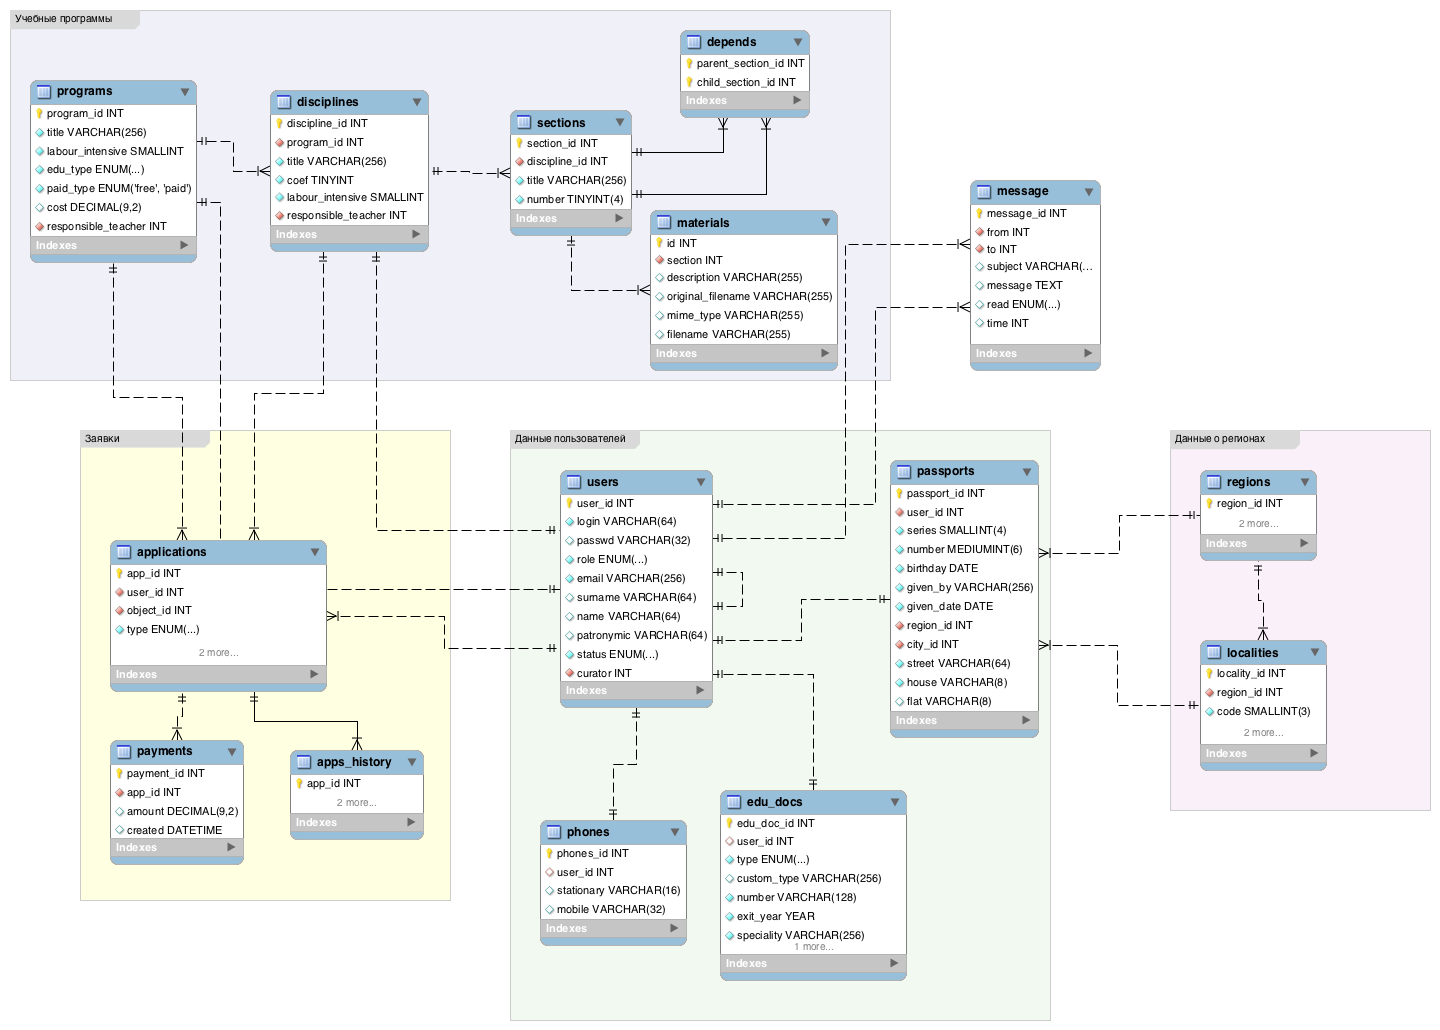
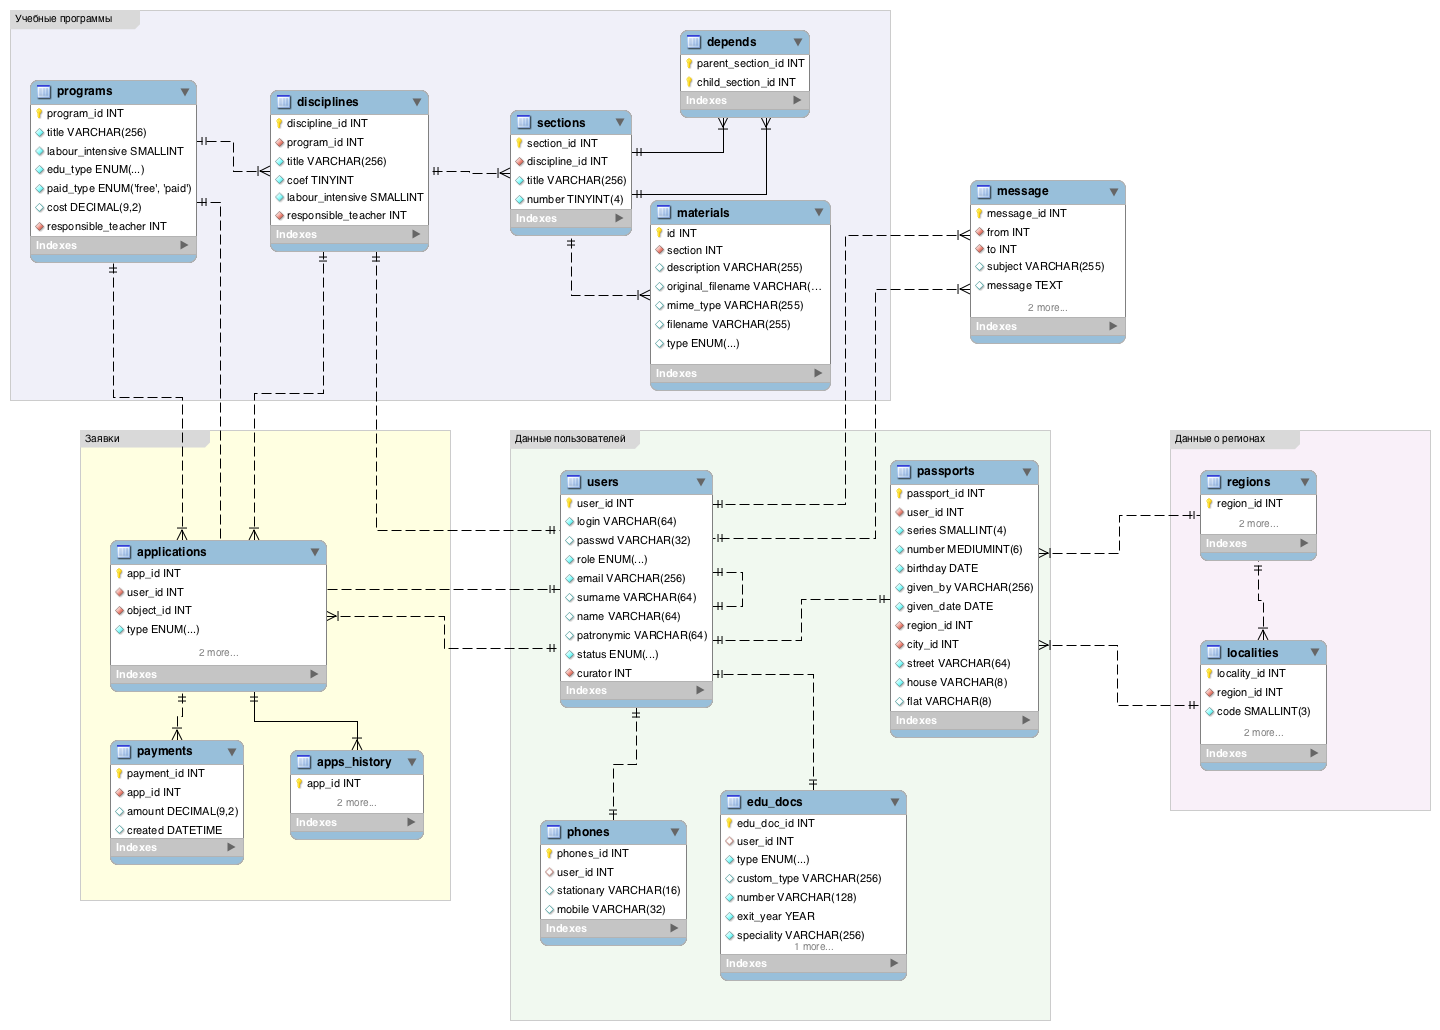
[+] тип образовательных материалов
git-svn-id: http://subversion.assembla.com/svn/remote-edu/trunk@183 8be755f0-7b69-014b-b4a2-75d5e90fc6ab

diff --git a/private/app/Model/Educational/Materials.php b/private/app/Model/Educational/Materials.php
@@ -16,20 +16,21 @@
             return new self();
         }
 
-        public function addMaterial ($description, $section, $originalFileInfo) {
-            $filename = $this->storage->storeFile ($originalFileInfo['tmp_name']);
+        public function addMaterial ($description, $section, $type, $originalFileInfo) {
+            $filename = $this->storage->storeFile($originalFileInfo['tmp_name']);
 
             $sql =
 <<<QUERY
-INSERT INTO `materials`(`description`,`original_filename`,`mime_type`,`filename`,`section`)
-VALUES (:description,:original_filename,:mime_type,:filename,:section)
+INSERT INTO `materials`(`description`,`original_filename`,`mime_type`,`filename`,`section`,`type`)
+VALUES (:description,:original_filename,:mime_type,:filename,:section,:type)
 QUERY;
             $params = array (
-                'description'		=> $description,
-                'original_filename'	=> $originalFileInfo['name'],
-                'mime_type'			=> $originalFileInfo['type'],
-                'filename'			=> $filename,
-                'section'			=> $section,
+                'description' => $description,
+                'original_filename' => $originalFileInfo['name'],
+                'mime_type' => $originalFileInfo['type'],
+                'filename' => $filename,
+                'section' => $section,
+                'type' => $type,
             );
 
             $this->prepare ($sql)
@@ -62,7 +63,7 @@ QUERY;
             $sql =
 <<<QUERY
 SELECT
-    `materials`.`id` as `id`,`materials`.`description` as `description`
+    `materials`.`id` as `id`,`materials`.`description` as `description`,`materials`.`type` AS `type`
 FROM
     `materials`
 QUERY;

diff --git a/private/app/Controller/Educational/Materials.php b/private/app/Controller/Educational/Materials.php
@@ -100,9 +100,10 @@
                     $request->set (
                         'get',
                         array (
-                            'description'	=> $material['description'],
-                            'section'		=> $material['section'],
-                            'filename'		=> $request->files['fileReference' . $i]['name'],
+                            'description' => $material['description'],
+                            'section' => $material['section'],
+                            'filename' => $request->files['fileReference' . $i]['name'],
+                            'type' => $material['type'],
                         )
                     );
 
@@ -112,14 +113,14 @@
                         $invalidMaterialsForms[] = $materialForm;
                     }
                     else {
-                        $educationalMaterials->addMaterial ($material['description'], $material['section'], $request->files['fileReference' . $i]);
+                        $educationalMaterials->addMaterial($material['description'], $material['section'], $material['type'], $request->files['fileReference' . $i]);
                     }
                 }
             }
 
             if (! empty ($invalidMaterialsForms)) {
-                $this->set		('invalidMaterialsForms', $invalidMaterialsForms);
-                $this->render	('educational_materials/upload');
+                $this->set('invalidMaterialsForms', $invalidMaterialsForms);
+                $this->render('educational_materials/upload');
             }
 
             $this->flash (

diff --git a/private/app/Model/Messages.php b/private/app/Model/Messages.php
@@ -139,9 +139,9 @@
                 $recipients = $stmt->fetchAll(Db_Pdo::FETCH_ASSOC);
                 
                 foreach ($recipients as $i => $recipient) {
-                    $retval[] = array(
-                        'recipient_id' => $recipient['user_id'],
-                        'recipient_name' => $recipient['surname'] . ' ' . mb_substr($recipient['surname'], 0, 1, 'utf-8') . '. ' . mb_substr($recipient['patronymic'], 0, 1, 'utf-8') . '.',                           
+                    $retval[$recipient['user_id']] = array(
+                        'recipient_name' => $recipient['surname'] . ' ' . mb_substr($recipient['surname'], 0, 1, 'utf-8') . '. ' . mb_substr($recipient['patronymic'], 0, 1, 'utf-8') . '.',
+                        'recipient_description' => array(),
                     );
                 }
 
@@ -185,7 +185,7 @@
                     );
 
                     $user = Model_User::create();
-                    $teachers = $user->getResponsibleTeachers();
+                    $teachers = $user->getStudentResponsibleTeachers();
                     
                     foreach ($teachers as $i => $teacher) {
                         if (isset($retval[$i])) {

diff --git a/private/app/Storage.php b/private/app/Storage.php
@@ -7,18 +7,18 @@
 		}
 		
 		public function storeFile () {
-			$args = func_get_args ();
-			$path = array_shift ($args);
-			if (count ($args)) {
-				$filename = array_shift ($args);
+			$args = func_get_args();
+			$path = array_shift($args);
+			if (count($args)) {
+				$filename = array_shift($args);
 			}
 			else {
 				do {
-					$filename = md5 ($path . rand (0, 0xFFFFFF));
-				} while (file_exists ($this->directory . '/' . $filename)); 
+					$filename = md5($path . rand (0, 0xFFFFFF));
+				} while (file_exists($this->directory . '/' . $filename)); 
 			}
 			
-			if (@move_uploaded_file ($path, $this->directory . '/' . $filename) === FALSE) {
+			if (@move_uploaded_file($path, $this->directory . '/' . $filename) === FALSE) {
 				throw new Exception ('Невозможно сохранить файл на сервере');
 			}
 			

diff --git a/private/app/Form/Materials/Upload.php b/private/app/Form/Materials/Upload.php
@@ -43,9 +43,10 @@
 			$this
                 ->setAction($action)
                 ->setMethod(self::METHOD_POST)
-				->addDescription ()
-				->addFileInfo ()
-				->addField ('section');				
+				->addDescription()
+				->addFileInfo()
+				->addField('section')
+				->addField('type');				
         }
 		
 		public static function create ($action) {

diff --git a/private/app/Model/Application.php b/private/app/Model/Application.php
@@ -264,8 +264,7 @@
             $apps = $stmt->fetchAll(Db_PdO::FETCH_ASSOC);
             return $apps;
         }
-
-
+        
         /**
         * Добавление записи об истории обработки заявки. Сохраняет новый статус
         * заявки и текущую дату.

diff --git a/private/app/Model/User.php b/private/app/Model/User.php
@@ -630,7 +630,7 @@
 			$this->prepare($sql)->execute($params);			
 		}
 		
-		public function getResponsibleTeachers() {		    
+		public function getStudentResponsibleTeachers() {		    
 		    $udata = (object) $this->getAuth();
 		    
             $app = Model_Application::create();

diff --git a/private/app/Resources.php b/private/app/Resources.php
@@ -56,7 +56,7 @@
                 $config['options']
             );
             
-            $db->exec('SET NAMES utf8');
+            //$db->exec('SET NAMES utf8');
             
             return $db;
         }
